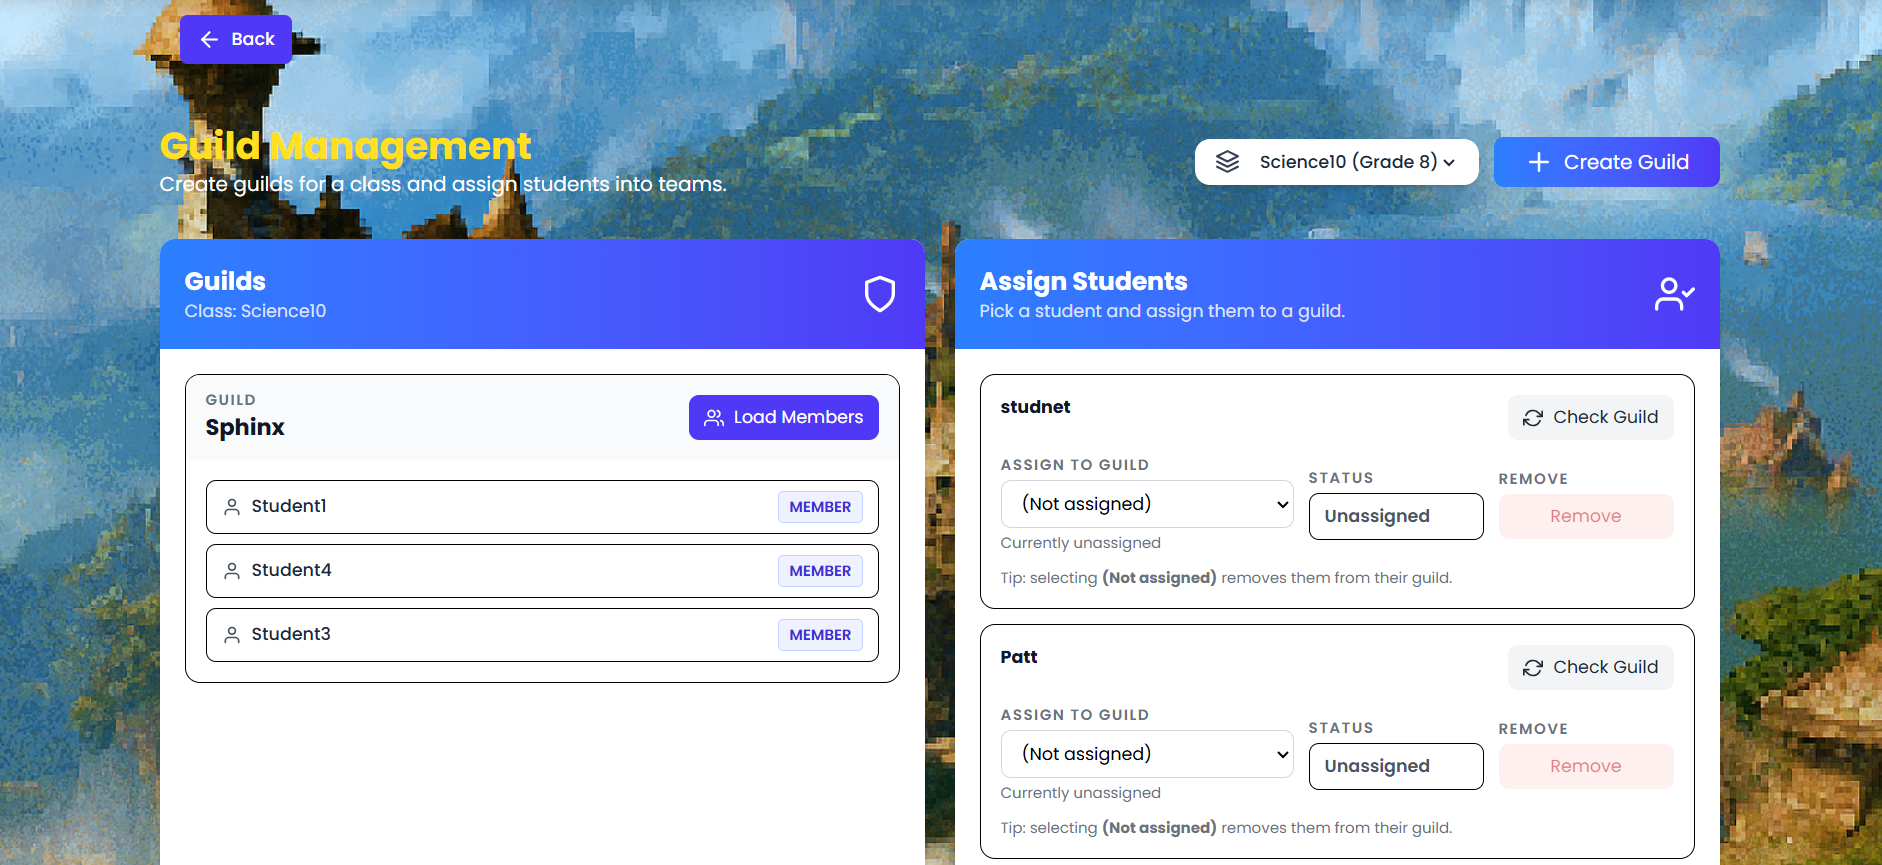
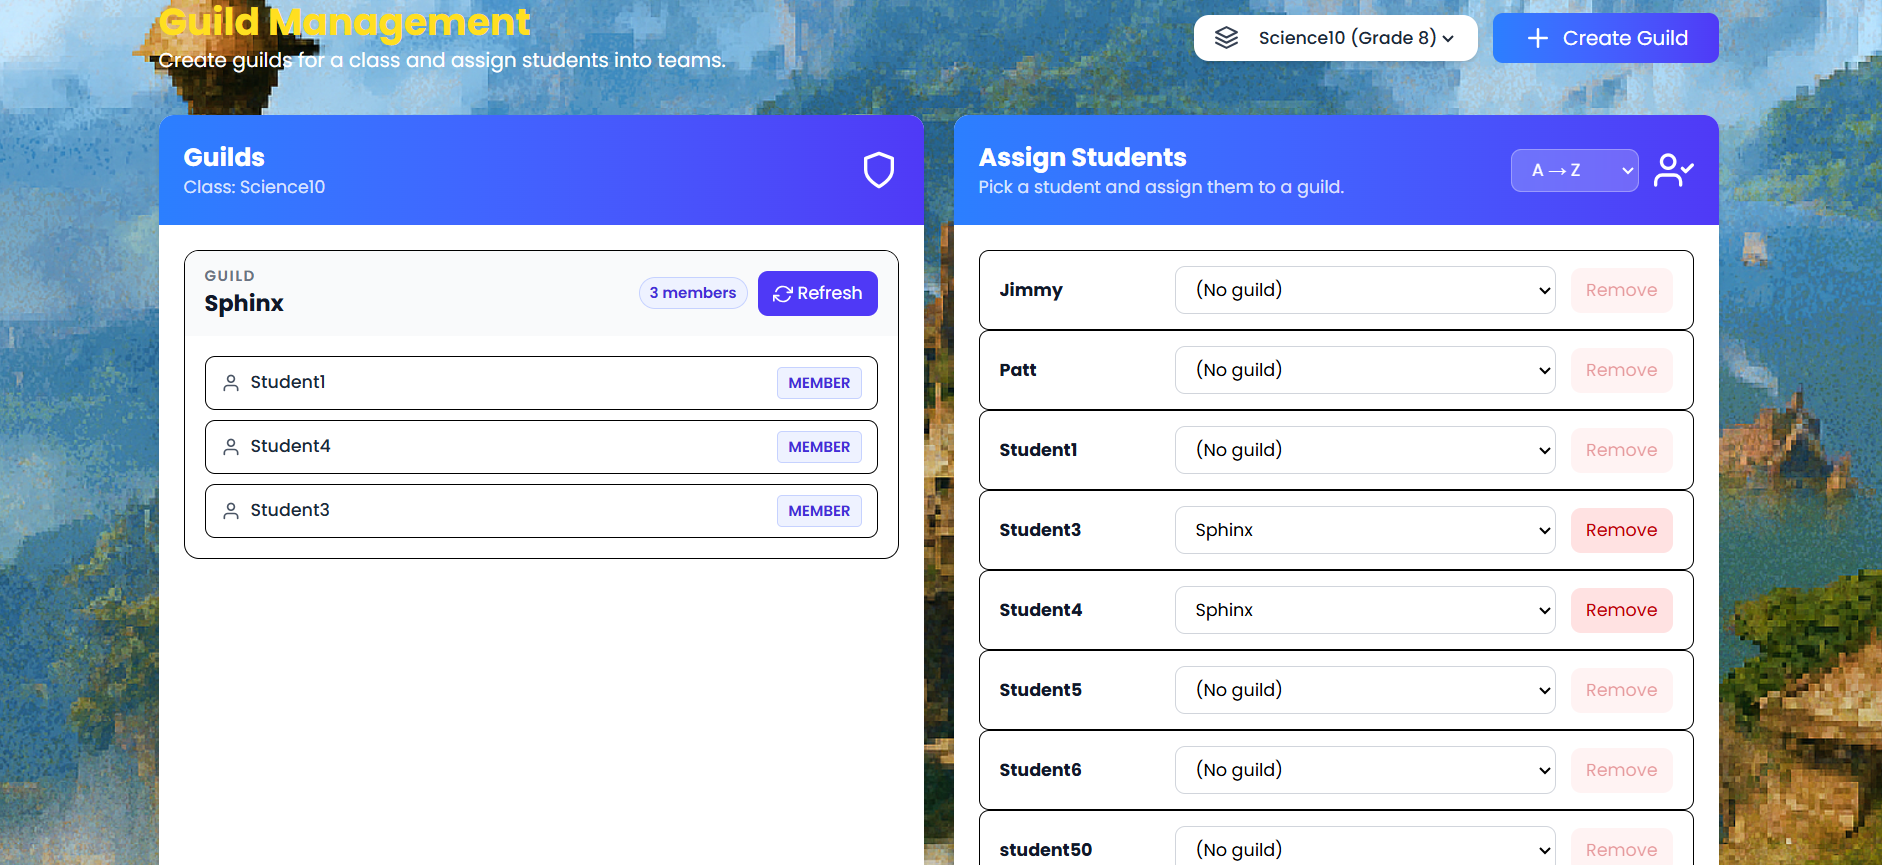
UserGuuide update

diff --git a/Project Management Documents/Tutorials and User guide/userGuide.md b/Project Management Documents/Tutorials and User guide/userGuide.md
@@ -2,13 +2,15 @@
 
 ### Getting Started
 
-1. [Create a ClassQuest account]()
-2. [Teacher: Managing classes]()
-3. [Teacher: Quest management]()
-4. [Teacher: Activity log]()
-5. [Teacher: Guild Management]()
-6. [Using ClassQuest as a student]()
-7. [ClassQuest tutorial](https://github.com/ClassQuest-Capstone/ClassQuest/blob/main/Project%20Management%20Documents/Tutorials%20and%20User%20guide/TutorialDoc.md)
+1. [Teacher: Create a ClassQuest account](#teacher-creating-an-account)
+2. [Student: Create a ClassQuest account](#student-creating-an-account)
+3. [Teacher: Managing classes](#teacher-managing-classes)
+4. [Teacher: Quest management](#teacher-quest-management)
+5. [Teacher: Activity log](#teacher-activity-log)
+6. [Teacher: Guild Management](#teacher-guild-management)
+7. [Student: Navigation tabs](#student-navigation-tabs)
+8. [Student: Guilds & Boss Battles](#student-guilds-and-boss-battles)
+9. [ClassQuest tutorial](https://github.com/ClassQuest-Capstone/ClassQuest/blob/main/Project%20Management%20Documents/Tutorials%20and%20User%20guide/TutorialDoc.md)
 
 ### Teacher Creating an account
 
@@ -132,7 +134,7 @@ To create a quest or boss battle and assign it to a class, follow these steps:
 5. **Deleting quests and boss battles**
     - Click the "Delete" button on the quest or boss battle template to delete the template
 
-### Teacher:Activity Log
+### Teacher: Activity Log
 To view the activity log and Leaderboard across all classes, follow these steps:
 <img src="Images/teacher-activity.png" width="500" height="250" /><img src="Images/teacher-leaderboard.png" width="500" height="250" />
 
@@ -161,4 +163,38 @@ To create a guild for a class and assign students to guilds, follow these steps:
     - Click the "Create Guild" button on the modal to create the guild
 
 2. **Assign Students to Guilds**
-    - On the right side of the screen, 
+    - On the right side of the screen, it shows all students in the selected class
+    - Using the dropdown, select the guild you want to assign the student to this would automatically add the student to the guild
+    - Use the "Remove button" to remove the student from assigned guild
+    - Use the sort button to sort student list alphabetically or by guild
+
+### Student: Navigation tabs
+
+Here students can view/ complete assigned quests, claim rewards and view their current hearts.
+
+To do the above,follow these steps:
+
+<img src="Images/student-dash-quest.png" width="500" height="250" /><img src="Images/student-rewards.png" width="500" height="250" /><img src="Images/student-hearts.png" width="500" height="250" />
+
+1. **View Active Quests**
+    - Click the "Active Quests" tab to view active quests
+    - Click the "Start Quest" button to start a quest
+    - Use the "View more" button to view more quests grouped by subject
+    - Once a quest is completed, you can review it using the "review" button
+
+    if a quest is past its due date, it will not be visible on the student dashboard
+
+2. **Claim rewards**
+    - Click the "Rewards" tab to view available rewards
+    - Click the "Claim" button to claim a reward once you reach required level
+    - Once claimed reward will be visible in your inventory
+
+3. **View Hearts**
+    - Click the "Hearts" tab to view your current hearts
+    - Here you get basic information about your hearts and their regeneration logic
+
+### Student: Guilds and Boss Battles
+
+Once assigned to a guild, navigate to the guild page to view guild memebers and their current hearts.
+
+To participate in a boss battle follow these steps:
